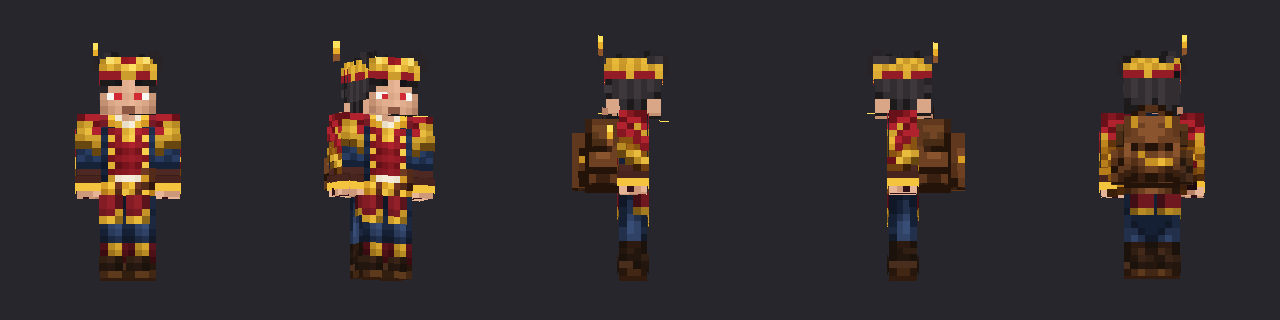
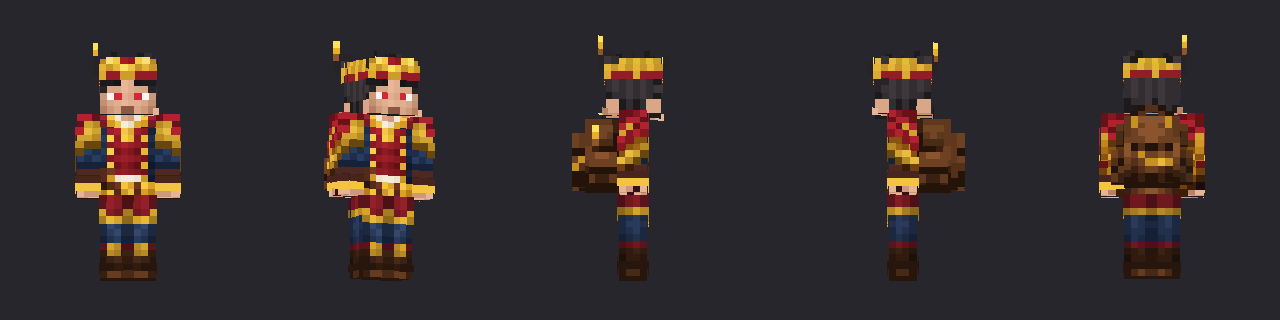
Mirror Rightleg and Leftleg (inner and outer layers) on voin_jp.png so right and left legs are true 3D mirrors

diff --git a/.render_bbmodel.py b/.render_bbmodel.py
@@ -1,0 +1,137 @@
+import sys, json, math
+from PIL import Image, ImageDraw
+
+bb_path, tex_path, out_path = sys.argv[1], sys.argv[2], sys.argv[3]
+with open(bb_path, "r") as f:
+    bb = json.load(f)
+tex = Image.open(tex_path).convert("RGBA")
+tw, th = tex.size
+
+def rot_vec(v, rot):
+    if not rot:
+        return v
+    x, y, z = v
+    rx, ry, rz = [math.radians(a) for a in rot]
+    cr, sr = math.cos(rx), math.sin(rx)
+    y, z = y * cr - z * sr, y * sr + z * cr
+    cp, sp = math.cos(ry), math.sin(ry)
+    x, z = x * cp + z * sp, -x * sp + z * cp
+    cy, sy = math.cos(rz), math.sin(rz)
+    x, y = x * cy - y * sy, x * sy + y * cy
+    return [x, y, z]
+
+def rot_pt(p, origin, rot):
+    if not rot:
+        return p
+    v = [p[0] - origin[0], p[1] - origin[1], p[2] - origin[2]]
+    rv = rot_vec(v, rot)
+    return [rv[0] + origin[0], rv[1] + origin[1], rv[2] + origin[2]]
+
+FACE_DEFS = {
+    "north": ([0, 1, 2, 3], (0, 0, -1)),
+    "south": ([4, 5, 6, 7], (0, 0,  1)),
+    "east":  ([7, 6, 1, 0], (1, 0,  0)),
+    "west":  ([3, 2, 5, 4], (-1, 0, 0)),
+    "up":    ([7, 0, 3, 4], (0, 1,  0)),
+    "down":  ([1, 6, 5, 2], (0, -1, 0)),
+}
+
+views = [0, 28, 90, -90, 180]
+panel_w, panel_h = 256, 320
+canvas = Image.new("RGBA", (panel_w * len(views), panel_h), (38, 38, 44, 255))
+draw = ImageDraw.Draw(canvas)
+
+pitch = math.radians(6.0)
+cp_cam, sp_cam = math.cos(pitch), math.sin(pitch)
+
+for vi, yaw_deg in enumerate(views):
+    yaw = math.radians(yaw_deg)
+    cy, sy = math.cos(yaw), math.sin(yaw)
+    quads = []
+    for ei, el in enumerate(bb.get("elements", [])):
+        if not el.get("visibility", True):
+            continue
+        x0, y0, z0 = el["from"]
+        x1, y1, z1 = el["to"]
+        is_plane = (abs(x1 - x0) < 0.01) or (abs(y1 - y0) < 0.01) or (abs(z1 - z0) < 0.01)
+        origin = el.get("origin", [0, 0, 0])
+        rot = el.get("rotation", None)
+        corners = [
+            [x1, y1, z0], [x1, y0, z0], [x0, y0, z0], [x0, y1, z0],
+            [x0, y1, z1], [x0, y0, z1], [x1, y0, z1], [x1, y1, z1],
+        ]
+        rc = [rot_pt(c, origin, rot) for c in corners]
+        faces = el.get("faces", {})
+        for fn, (idxs, norm) in FACE_DEFS.items():
+            if fn not in faces:
+                continue
+            rn = rot_vec(norm, rot)
+            nx = rn[0] * cy + rn[2] * sy
+            nz = -rn[0] * sy + rn[2] * cy
+            ny = rn[1] * cp_cam - nz * sp_cam
+            nz_cam = rn[1] * sp_cam + nz * cp_cam
+            if not is_plane and nz_cam > 0.05:
+                continue
+            if not is_plane and el.get("box_uv") and "uv_offset" in el:
+                uo, vo = el["uv_offset"]
+                dx = int(math.floor(x1 - x0 + 1e-5))
+                dy = int(math.floor(y1 - y0 + 1e-5))
+                dz = int(math.floor(z1 - z0 + 1e-5))
+                box_map = {
+                    "east":  (uo, vo + dz, uo + dz, vo + dz + dy),
+                    "north": (uo + dz, vo + dz, uo + dz + dx, vo + dz + dy),
+                    "west":  (uo + dz + dx, vo + dz, uo + 2 * dz + dx, vo + dz + dy),
+                    "south": (uo + 2 * dz + dx, vo + dz, uo + 2 * dz + 2 * dx, vo + dz + dy),
+                    "up":    (uo + dz + dx, vo + dz, uo + dz, vo),
+                    "down":  (uo + 2 * dz + dx, vo, uo + dz + dx, vo + dz),
+                }
+                u0, v0, u1, v1 = box_map[fn]
+                du, dv = u1 - u0, v1 - v0
+                steps_u = max(1, abs(du))
+                steps_v = max(1, abs(dv))
+            else:
+                uv = faces[fn].get("uv")
+                if not uv:
+                    continue
+                u0, v0, u1, v1 = uv
+                du, dv = u1 - u0, v1 - v0
+                steps_u = max(1, int(math.ceil(abs(du))))
+                steps_v = max(1, int(math.ceil(abs(dv))))
+            p0, p1, p2, p3 = [rc[i] for i in idxs]
+            for iv in range(steps_v):
+                tv0 = iv / steps_v
+                tv1 = (iv + 1) / steps_v
+                tu_v = v0 + (iv + 0.5) / steps_v * dv
+                py = max(0, min(th - 1, int(tu_v)))
+                for iu in range(steps_u):
+                    tu0 = iu / steps_u
+                    tu1 = (iu + 1) / steps_u
+                    tu_u = u0 + (iu + 0.5) / steps_u * du
+                    px = max(0, min(tw - 1, int(tu_u)))
+                    rgba = tex.getpixel((px, py))
+                    if rgba[3] < 16:
+                        continue
+                    def bilerp(u, v):
+                        return [
+                            (1 - u) * (1 - v) * p0[k] + u * (1 - v) * p3[k] + u * v * p2[k] + (1 - u) * v * p1[k]
+                            for k in range(3)
+                        ]
+                    q = [bilerp(tu0, tv0), bilerp(tu1, tv0), bilerp(tu1, tv1), bilerp(tu0, tv1)]
+                    pts2d = []
+                    zs = []
+                    for pt in q:
+                        rx = pt[0] * cy + pt[2] * sy
+                        rz = -pt[0] * sy + pt[2] * cy
+                        ry = pt[1] * cp_cam - rz * sp_cam
+                        rz_c = pt[1] * sp_cam + rz * cp_cam
+                        sx = vi * panel_w + panel_w // 2 - rx * 6.8
+                        sy_scr = panel_h - 42 - ry * 6.8
+                        pts2d.append((sx, sy_scr))
+                        zs.append(rz_c)
+                    quads.append((sum(zs) / 4.0, pts2d, rgba[:3]))
+    quads.sort(key=lambda item: item[0], reverse=True)
+    for _, pts2d, col in quads:
+        draw.polygon(pts2d, fill=col)
+
+canvas.convert("RGB").save(out_path)
+print("Saved 3D preview to", out_path)
